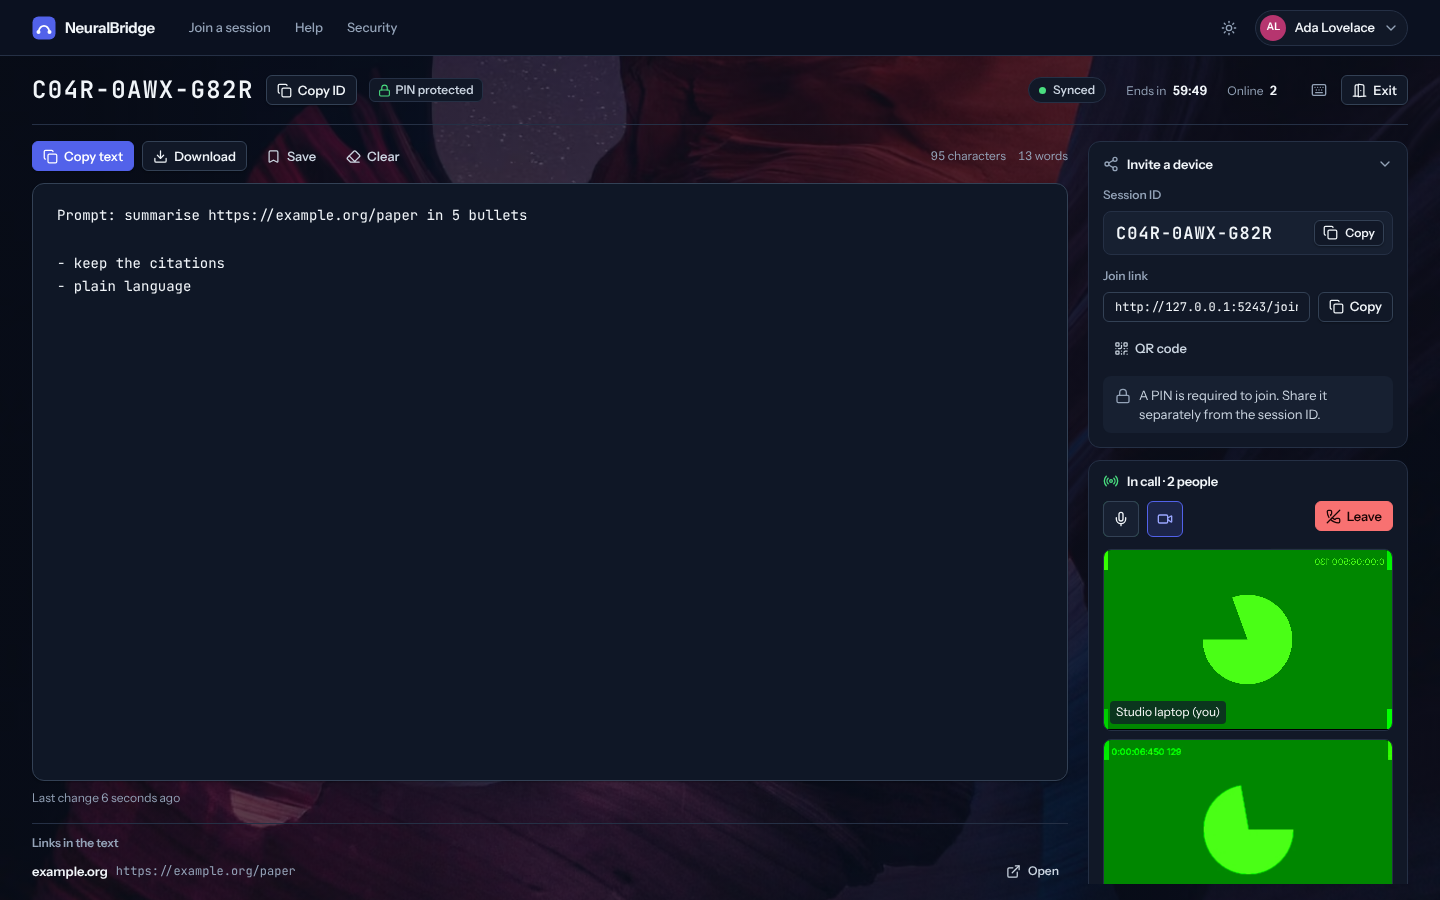
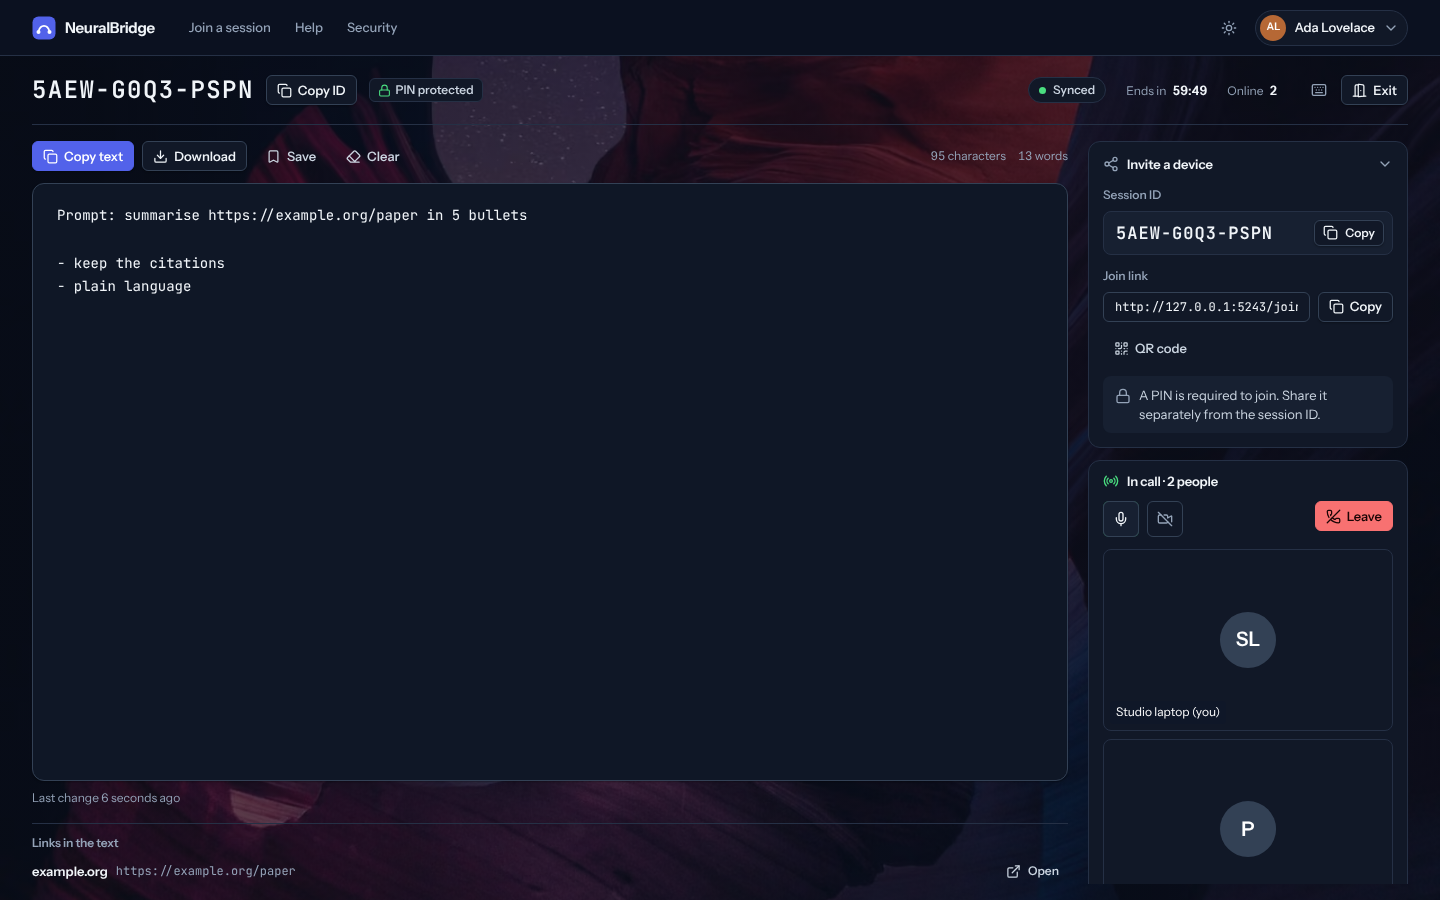
Refresh README and screenshots: no fake-camera green, no old wallpaper
- Screenshots show an audio call, so Chromium's green fake-camera pattern no longer appears
- README: correct call button names, Google-not-configured behaviour, copy fallback,
  migrations note and verification wording; merge duplicate troubleshooting rows
- Unit test example path points at the background photo instead of the removed wallpaper

Claude-Session: https://claude.ai/code/session_01BLbvt19Z1prTgiDsRvr4U6

diff --git a/tests/NeuralBridge.Tests/Web/WebUnitTests.cs b/tests/NeuralBridge.Tests/Web/WebUnitTests.cs
@@ -116,7 +116,7 @@ public class GlobalRateLimitScopeTests
     [Theory]
     [InlineData("/_framework/blazor.web.abc.js", true)]
     [InlineData("/_blazor/negotiate", true)]
-    [InlineData("/img/wallpaper/wallpaper-landscape-1920.x.avif", true)]
+    [InlineData("/img/background/canyon-1600.x.avif", true)]
     [InlineData("/icons/lucide.svg", true)]
     [InlineData("/Components/Layout/ReconnectModal.abc.razor.js", true)]
     [InlineData("/", false)]

diff --git a/README.md b/README.md
@@ -11,7 +11,7 @@ outside its own editor.
 
 ![Landing page](docs/screenshots/landing-light.png)
 
-| A new session, ready to share (light) | Workspace with a video call (dark, signed in) |
+| A new session, ready to share (light) | Workspace in an audio call (dark, signed in) |
 |---|---|
 | ![New session with QR code](docs/screenshots/workspace-share-light.png) | ![Owner workspace](docs/screenshots/workspace-owner-dark.png) |
 
@@ -23,7 +23,7 @@ outside its own editor.
 |---|---|---|
 | ![Log in](docs/screenshots/login.png) | ![Account menu](docs/screenshots/account-menu.png) | ![My sessions](docs/screenshots/my-sessions.png) |
 
-The screenshots use Chromium's fake camera (green test pattern) and the mock Google provider.
+The signed-in screenshots use the mock Google provider described under [Tests](#end-to-end-tests-playwright).
 
 ---
 
@@ -93,8 +93,8 @@ private window and join with the code shown in the first.
 **Try it from your phone on the same network:** run the `lan (other devices)` profile
 (`dotnet run --project src/NeuralBridge.Web --launch-profile "lan (other devices)"`), then open
 `http://<your-computer-ip>:5243` on the phone. Over plain HTTP, browsers block the async
-Clipboard API, so NeuralBridge falls back to a legacy copy method. Use HTTPS for anything
-sensitive.
+Clipboard API, so NeuralBridge falls back to a legacy copy method, and if that is blocked too it
+selects the text so you can press Ctrl/⌘+C. Use HTTPS for anything sensitive.
 
 **No database at all (demo mode):**
 
@@ -239,9 +239,9 @@ Live text is never stored.
 ## Google sign-in (optional)
 
 > This section is for **whoever runs the server**. People using NeuralBridge never see any of
-> it: they click *Continue with Google*, or use email and password, or continue as a guest.
-> Without Google credentials the button is shown disabled with "Google sign-in is not
-> configured." and everything else works.
+> it: they click *Continue with Google*, use email and password, or skip accounts entirely.
+> Without Google credentials the home page leaves Google out, the log-in and registration pages
+> show the button disabled with "Google sign-in is not configured.", and everything else works.
 
 ### 1. Create the OAuth client (once per deployment)
 
@@ -307,8 +307,8 @@ Production).
 ## Audio and video calls
 
 Calls are WebRTC between the browsers in a session (no media goes through the server).
-Camera and microphone are requested only when someone clicks *Join with audio* or *Join with
-video*, and need HTTPS (or `localhost`). Most home and office networks connect with the
+Camera and microphone are requested only when someone clicks *Audio* or *Video* in the call
+panel, and need HTTPS (or `localhost`). Most home and office networks connect with the
 default STUN server. Very restrictive networks (some university or corporate networks)
 need a TURN relay:
 
@@ -330,7 +330,7 @@ dotnet test --collect:"XPlat Code Coverage"  # with coverage
 
 `tests/NeuralBridge.Tests` covers (in addition to the list below): Google OAuth registration (Google endpoints and PKCE in production, test endpoints ignored outside Development/Testing, configurable callback path, CSP `form-action`), partial-configuration validation without leaking values, the public provider status, creating/matching/linking accounts from Google identities (no automatic takeover of password accounts, lockout), avatar URL filtering, startup redirect-URI reporting, calls (roster, media state, cross-session signal rejection, size limits, capacity, leaving after close), account history retention, clearing history and account deletion.
 
-Earlier coverage:
+Also covered:
 
 - **Domain:** codes, lifetime, capacity, PIN lockout, name sanitizing
 - **Security:** CSPRNG code generator (uniqueness, alphabet, distribution), PBKDF2 hasher, tokens, rate limiter
@@ -369,8 +369,7 @@ It covers:
 - calls: two contexts join a PIN-protected session, connect audio/video (real `RTCPeerConnection`s), decoded remote video, mute (red, slashed icon, shown to the other side), camera off, leave releases the camera
 - copy → check icon, keyboard tooltips, the nav's join link, guest Exit, and every same-origin link resolving
 - the workspace features: the QR code (encodes exactly `/join/{ID}`, no PIN or token, and the link prefills the join form), Download (file name and exact contents, no network request), the status pill (pending → synced), shortcuts (Ctrl/⌘+Enter, `?`, `E`, and no stolen keys while typing), the ending-soon banner and one-click extend (using an extra 5-minute session length configured only for the tests), phone layout with collapsed panels, and both themes
-
-- the 11-step brief flow: landing, create, a second context joins, type both ways, copy, close, both see the closed state
+- the full guest flow: landing, create, a second context joins, type both ways, copy, close, both see the closed state
 - debounced typing, clear-with-confirmation, reload resilience, joining without credentials
 - PIN rejection with the anti-enumeration message, code rotation, read-only guests, removing a device
 - an XSS payload stays inert, plus the security headers
@@ -426,7 +425,7 @@ Making them connect to their own hub would mean loopback HTTP clients. The dedic
 `/hubs/session` hub serves non-Blazor clients through the same services, with strict group
 isolation. Both sit behind `ISessionEventBus`, so a Redis backplane can replace it later.
 
-`docs/ARCHITECTURE.md` has the full plan, risks and acceptance criteria. `docs/VERIFICATION.md` records exactly what was built and tested when this project was generated.
+`docs/ARCHITECTURE.md` has the full design, including the frontend, risks and acceptance criteria. `docs/VERIFICATION.md` records which checks were run for each release, where, and their results.
 
 ## Security & privacy
 
@@ -448,8 +447,7 @@ See [`docs/SECURITY.md`](docs/SECURITY.md) for the threat model. Highlights:
 | `The SSL connection could not be established` / browser certificate warning | `dotnet dev-certs https --clean && dotnet dev-certs https --trust`, or use the `http` profile |
 | Startup fails with `OptionsValidationException` | A configuration value is out of range. The message names the key. |
 | `SQLite Error 1: no such table` after adding migrations | Delete `src/NeuralBridge.Web/data/neuralbridge.db` once (it was created by `EnsureCreated`) |
-| "Copy failed" on a phone over `http://192.168…` | Browsers restrict the clipboard on insecure origins. Use HTTPS, or select and copy manually. |
-| "Press Ctrl+C" appears after Copy | The browser blocked clipboard access (insecure origin or permissions). The text is selected for you; press Ctrl/⌘+C. |
+| "Press Ctrl+C" appears after Copy (often on a phone over `http://192.168…`) | The browser blocked clipboard access (insecure origin or permissions). The text is selected for you; press Ctrl/⌘+C, or use HTTPS. |
 | Google button disabled ("Google sign-in is not configured.") | The server has no `Authentication:Google:ClientId`/`ClientSecret`. See [Google sign-in](#google-sign-in-optional). The startup log says which. |
 | `redirect_uri_mismatch` from Google | Register exactly the URI printed in the startup log (`Authorized redirect URI(s) to register for this host: ...`). Scheme, host, port and path must match. |
 | "Google sign-in didn't complete" | The correlation cookie was lost (an `http` origin with `HttpsRedirection=true` in Production, or a proxy without `ForwardedHeadersEnabled`), or the client secret is wrong. The server log has the reason, never the secret. |
@@ -463,7 +461,7 @@ See [`docs/SECURITY.md`](docs/SECURITY.md) for the threat model. Highlights:
 
 - **Single instance.** Live text, presence, the event bus and the per-session locks are in process. Running several instances needs Redis (or similar) behind `IDocumentStore`, `ISessionEventBus`, `IPresenceTracker` and `ISessionLockProvider`, plus sticky sessions for Blazor Server. Restarting the server clears live text by design. Session metadata survives, so participants rejoin into an empty document.
 - **Last-write-wins.** Simultaneous typing in the same moment can overwrite the other person's most recent keystrokes. The seam for OT or a CRDT is `IDocumentMergeStrategy`.
-- **No committed EF migrations.** The project was generated in an environment without NuGet access, so `dotnet ef` couldn't run. Generate them with `scripts/add-initial-migration.*`. Until then, the schema is created with `EnsureCreated`. Migrations are provider-specific: keep a separate set (or migrations assembly) per provider if you use both SQLite and PostgreSQL.
+- **No committed EF migrations yet.** Generate them with `scripts/add-initial-migration.*`. Until then, the schema is created with `EnsureCreated`. Migrations are provider-specific: keep a separate set (or migrations assembly) per provider if you use both SQLite and PostgreSQL.
 - **Guest ownership is per tab.** Closing the owner's tab loses owner controls for a guest session (the session continues until it expires). Signed-in owners can reopen from **My sessions**.
 - **Server-visible content.** Content is encrypted in transit (HTTPS) but is processed in server memory. It is not end-to-end encrypted.
 - **One shared document per session.** There are no tabs or history. A multi-document design is sketched in [`docs/ROADMAP.md`](docs/ROADMAP.md).
@@ -503,7 +501,7 @@ cd tests/NeuralBridge.E2ETests && NB_BASE_URL=http://127.0.0.1:5243 node scripts
 
 The script writes the landing page (dark, light, phone), log in, the account menu, My
 sessions, Account settings, a new session with its QR code, the owner and guest workspaces
-in a video call, and the closed-session state. (These fake values only work against the mock provider.)
+in an audio call (audio only, so no fake-camera test pattern appears), and the closed-session state. (These fake values only work against the mock provider.)
 
 ## License
 
@@ -511,4 +509,4 @@ Fonts are bundled under the SIL Open Font License (see `src/NeuralBridge.Web/www
 The background photo is by Pawel Czerwinski on Unsplash (Unsplash License), in `wwwroot/img/background/`.
 Icons are from Lucide (ISC, `wwwroot/icons/lucide.svg`, rebuilt with `scripts/build-icons.mjs`). The QR encoder is
 qrcode-generator by Kazuhiko Arase (MIT, `wwwroot/js/vendor/`).
-Choose and add a license for the application code before publishing.
+No license has been chosen for the application code yet.

diff --git a/docs/VERIFICATION.md b/docs/VERIFICATION.md
@@ -1,7 +1,7 @@
 # Verification record
 
 What was actually executed for the redesign release (new interface, QR join, download, sync
-status, shortcuts, ending-soon warning, wallpaper and location removal), where, and what was not.
+status, shortcuts, ending-soon warning, removal of the old wallpaper and the location widget, later the canyon background photo), where, and what was not.
 
 ## 1. Cloud sandbox, real packages (this release)
 
